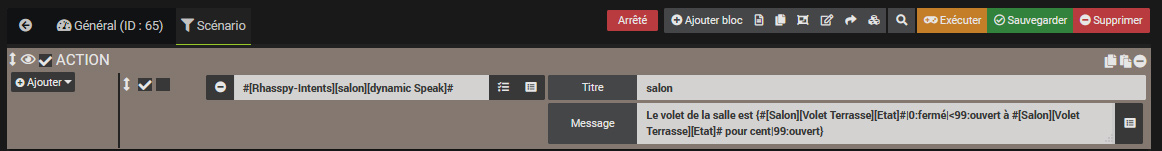
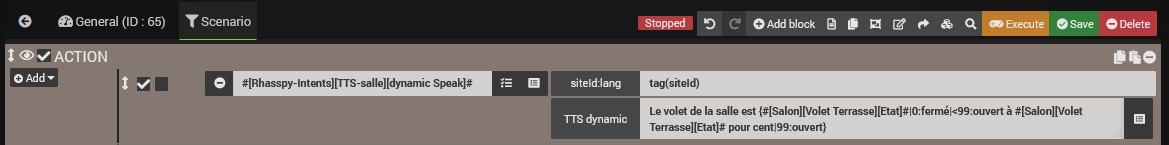
jeerhasspy doc

diff --git a/plugins/jeerhasspy/fr_FR/index.md b/plugins/jeerhasspy/fr_FR/index.md
@@ -11,11 +11,7 @@ description: Plugin pour le support de l'assistant vocal Rhasspy dans Jeedom
 *→ [Rhasspy Assistant Tips n Tricks](https://kiboost.github.io/jeedom_docs/other/Rhasspy/)*
 
 Plugin pour le support de l'assistant vocal [Rhasspy](https://rhasspy.github.io/rhasspy-voltron/) dans Jeedom.
-Vous devez au préalable avoir un système Rhasspy fonctionnel !
-
-> Attention
->
-> JeeRhasspy supporte désormais l'assistant **Rhasspy en version 2.5 minimum**.
+Vous devez au préalable avoir un assistant Rhasspy fonctionnel, en version 2.5 minimum.
 
 [Changelog](changelog.md)<br />
 
@@ -169,20 +165,20 @@ Le premier bloc SI sera commun à la plupart de ce type de scénario : On veut s
 		}
 	],
 	"text": "allume les lumière de la cuisine",
-	"wakeId": "snowboy\/hey_brigitte.pmdl",
+	"wakeId": "someoneHere",
 	"siteId": "salon"
 }
 ```
 
 </details>
 
-Le plugin sait donc de qu'elle intention il s'agit, et lance alors le scénario correspondant avec les tags suivant :
+Le plugin sait donc de quelle intention il s'agit, et lance alors le scénario correspondant avec les tags suivant :
 
 ```
-Start : Lancement provoque. Tags : {"#intent#":"lightsTurnOnJeedom","#confidence#":"1","#wakeword#":"snowboy\/hey_brigitte.pmdl","#query#":"allume les lumière de la cuisine","#siteId#":"salon","#house_room#":"cuisine"}
+Start : Lancement provoque. Tags : {"#intent#":"lightsTurnOnJeedom","#confidence#":"1","#wakeword#":"someoneHere","#query#":"allume les lumière de la cuisine","#siteId#":"salon","#house_room#":"cuisine"}
 ```
 
-Donc si on pas de tag(house_room), car on peut simplement lui demander d'allumer la lumière sans préciser où, on a deux solutions :
+Donc si a on pas de tag(house_room), car on peut simplement lui demander d'allumer la lumière sans préciser où, on a deux solutions :
 - Soit le siteId n'est pas renseigné dans Rhasspy, donc on donne le nom de notre device de base (maître) Rhasspy, ici dans le *salon*.
 - Soit le siteId est renseigné, et on l'utilise.
 Et si on a le tag(house_room), on l'utilise.
@@ -191,7 +187,7 @@ On a donc maintenant tag(rhasspy_room) qui correspond à la pièce souhaitée.
 Le deuxième bloc SI n'est pas obligatoire. Vous pouvez lancer le même scénario pour plusieurs intents, et il sert donc à filtrer l'intent souhaité.
 Par exemple si on veux allumer ou éteindre une lumière.
 
-Finalement, on vérifie de quelle lumière il s'agit : `SI tag(rhasspy_room) matches "/cuisine\|maison/"`
+Finalement, on vérifie de quelle lumière il s'agit : `SI tag(rhasspy_room) matches "/cuisine|maison/"`
 
 En matchant cuisine ou maison, on pourra aussi demander :
 
@@ -201,23 +197,33 @@ On peut aussi différencier *en bas*, *en haut* pour pouvoir demander :
 
 > Allume les lumières en bas
 
-Avec `SI tag(rhasspy_room) matches "/cuisine\|maison\|en bas/"`
+Avec `SI tag(rhasspy_room) matches "/cuisine|maison|en bas/"`
 
 Et ainsi de suite ...
 
 ## Commandes
 
-Sur chaque device Rhasspy, il y a cinq commandes:
+Sur chaque device Rhasspy, il y a sept commandes:
 
 - **Speak** : Permet d'énoncer un texte.
 - **dynamic Speak** : Permet d'énoncer un texte construit dynamiquement.
 - **Ask** : Permet d'utiliser la fonction **Ask** de Jeedom.
 - **setVolume** : Permet de régler le volume de sortie (TTS) entre 0 et 1.
-- **repeatTTS** : Répère la dernière phrase émise (TTS).
+- **repeatTTS** : Répète la dernière phrase émise (TTS).
 - **ledOn** : Permet d'allumer les LEDs.
 - **ledOff** : Permet d'éteindre les LEDs.
 
 Ces deux dernières commandes nécessitent [HermesLedControl](https://github.com/project-alice-assistant/HermesLedControl/wiki).
+
+### TTS
+
+Les commandes *Speak* et *dynamic Speak* disponibles sur le Master possèdent un champ **siteId:lang** permettant de faire parler un satellite, et dans une langue au choix. Quelques exemples :
+
+{% include lightbox.html src="jeerhasspy/images/speak_options.jpg" data="jeerhasspy" title="Speak Options" imgstyle="width:550px;display: block;margin: 0 auto;" %}
+
+- salle, studio : Le texte sera prononcé simultanément par ces deux devices Rhasspy.
+- :en : Le texte sera prononcé en anglais.
+- studio:es : Le texte sera prononcé sur le satellite *studio*, en espagnol.
 
 ### Commande *dynamic Speak*
 
@@ -225,7 +231,7 @@ Cette commande permet de construire un texte dynamique en fonction d'information
 
 {% include lightbox.html src="jeerhasspy/images/dynspeak.jpg" data="jeerhasspy" title="dynamic Speak" imgstyle="width:550px;display: block;margin: 0 auto;" %}
 
-Par exemple, vous voulez demander à Rhasspy si le volet est ouvert. L'information dans Jeedom étant le pourcentage d'ouverture, ou 0 / 1, la réponse ne sera pas très *waf*.
+Par exemple, vous voulez demander à Rhasspy si le volet est ouvert. L'information dans Jeedom étant le pourcentage d'ouverture, ou 0 / 1, la réponse ne sera pas très *waf* (Wife Acceptance Factor).
 
 Vous pourriez faire plusieurs blocs SI pour testant chaque possibilité et renvoyer le bon texte, mais çà complexifie énormément les scénarios.
 
@@ -293,4 +299,6 @@ Jeedom changera alors automatiquement le nom de la commande avec le siteId, et l
 
 {% include lightbox.html src="jeerhasspy/images/dynamic_ask.jpg" data="jeerhasspy" title="Commande Ask dynamique" imgstyle="width:550px;display: block;margin: 0 auto;" %}
 
+
+Les autres commandes sont des commandes simples qui ne nécessitent pas vraiment d'explications ;-)
 
